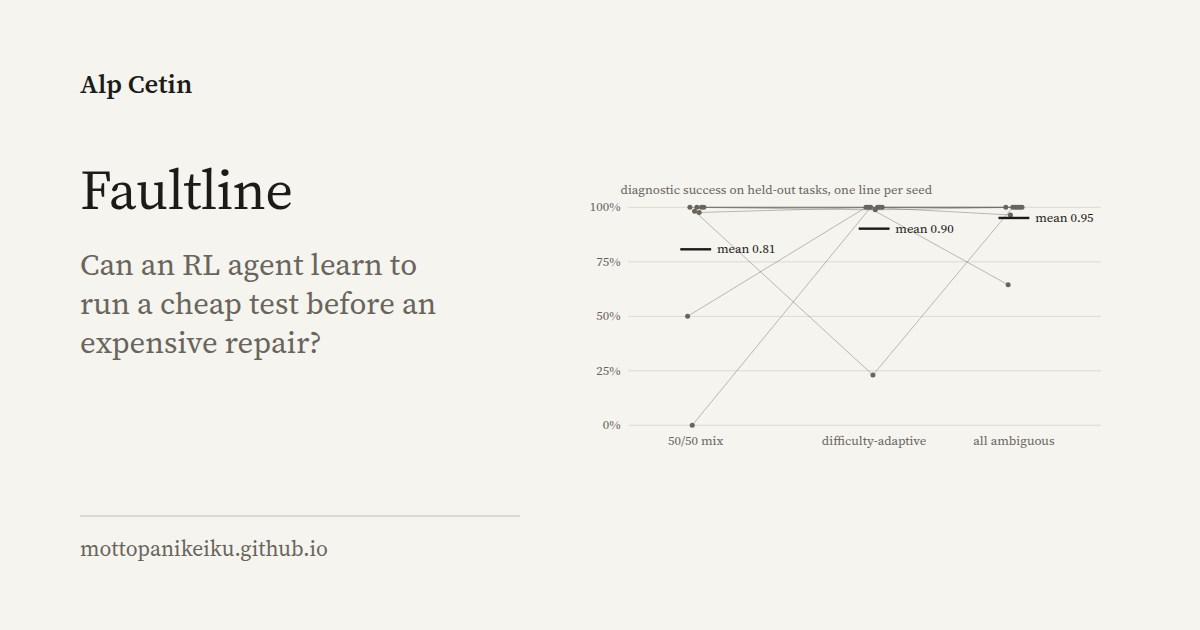
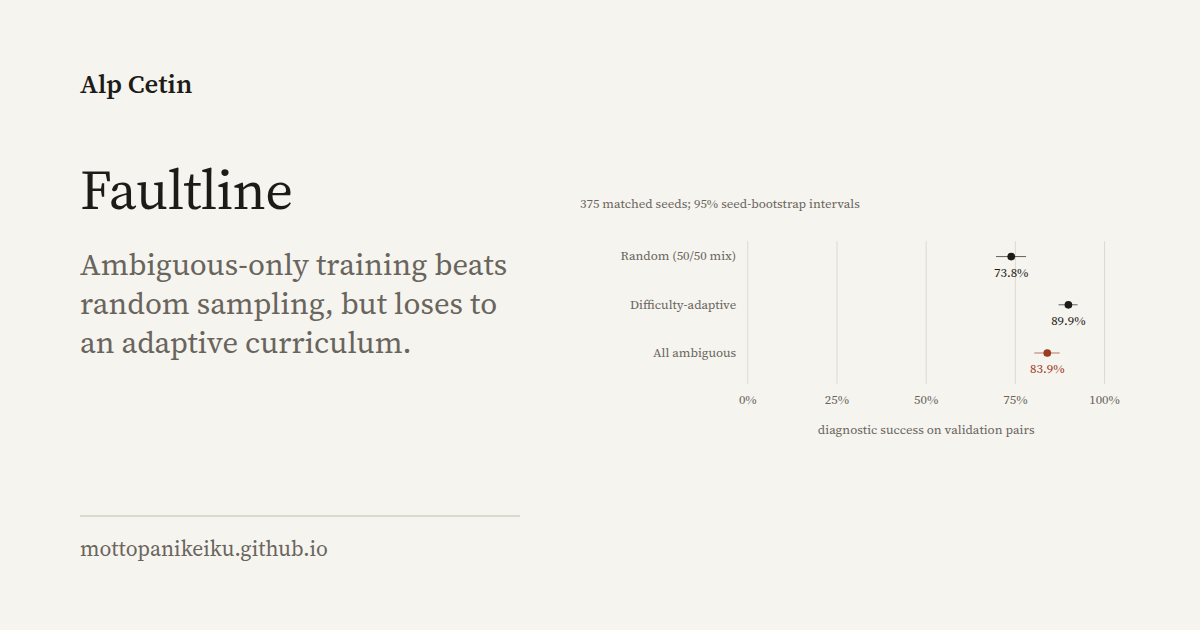
Publish independent 375-seed curriculum confirmation

diff --git a/projects/faultline/index.html b/projects/faultline/index.html
@@ -4,7 +4,7 @@
   <meta charset="utf-8">
   <meta name="viewport" content="width=device-width, initial-scale=1">
   <title>Faultline · Alp Cetin</title>
-  <meta name="description" content="A factory-diagnosis simulator for testing whether reinforcement-learning agents learn to run a cheap test before an expensive repair.">
+  <meta name="description" content="Across 375 matched training seeds, ambiguous-only PPO beats random factory sampling but loses to a difficulty-adaptive curriculum.">
   <link rel="canonical" href="https://mottopanikeiku.github.io/projects/faultline/">
   <meta name="color-scheme" content="light dark">
   <meta name="theme-color" media="(prefers-color-scheme: light)" content="#f6f4ef">
@@ -17,7 +17,7 @@
   <meta property="og:type" content="article">
   <meta property="og:site_name" content="Alp Cetin">
   <meta property="og:title" content="Faultline">
-  <meta property="og:description" content="Can a reinforcement-learning agent learn to run a cheap test before an expensive repair?">
+  <meta property="og:description" content="Ambiguous-only training beats random sampling, but loses to difficulty-adaptive sampling in an independent 375-seed confirmation.">
   <meta property="og:url" content="https://mottopanikeiku.github.io/projects/faultline/">
   <meta property="og:image" content="https://mottopanikeiku.github.io/og/faultline.png">
   <meta property="og:image:width" content="1200">
@@ -49,27 +49,29 @@
     <section class="block" aria-labelledby="method">
       <h2 id="method">Method</h2>
       <div class="prose">
-        <p>The agent is a graph encoder with a recurrent core, trained with PPO. Its reward is production minus operating costs, with no bonus for gathering information, so an inspection has to pay for itself. Each curriculum was trained from the same eight seeds for 30,000 decisions and evaluated on 128 held-out pairs of factories.</p>
+        <p>The agent is a graph encoder with a recurrent core, trained with PPO. Its reward is production minus operating costs, with no bonus for gathering information, so an inspection has to pay for itself. I compare a 50/50 mix of ambiguous and revealed tasks, a difficulty-adaptive mix, and ambiguous tasks only.</p>
+        <p>For the independent confirmation, I fixed 375 matched training seeds, 500–874, <a href="https://github.com/mottopanikeiku/faultline/commit/550766e">before training</a>: 1,125 policies, each targeting 30,000 decisions. Every run evaluates the same 128 validation base pairs. Diagnostic success requires advancing, obtaining informative inspection evidence, then making the correct repair; guessing alone does not count. The 95% intervals use 10,000 bootstrap resamples over training seeds, not episodes. Poor learning runs remain included.</p>
       </div>
     </section>
 
     <section class="block" aria-labelledby="result">
       <h2 id="result">Result</h2>
       <div class="prose">
-        <p>I didn’t establish a curriculum effect. Training only on ambiguous cases had the highest mean, 95% against 90% and 81%, but most seeds reach 100% under every curriculum, and the means differ because of a few failed seeds.</p>
+        <p>Ambiguous-only training beats random sampling, but loses to the difficulty curriculum. Mean diagnostic success is 73.8% for Random, 89.9% for Difficulty, and 83.9% for Epistemic (all ambiguous).</p>
         <figure class="figure">
-          <div class="scroll" tabindex="0" role="region" aria-labelledby="faultline-title"><!-- figure:faultline --><svg class="chart" viewBox="0 0 560 316" role="img" aria-labelledby="faultline-title faultline-desc"><title id="faultline-title">Diagnostic success of each training seed under three curricula</title><desc id="faultline-desc">Eight paired seeds per curriculum. Means: 50/50 mix 0.81, difficulty-adaptive 0.90, all ambiguous 0.95. Most seeds reach 100% under every curriculum; the means differ because of a few poor seeds.</desc><line class="grid" x1="50" y1="272" x2="540" y2="272"/><text text-anchor="end" x="42" y="276">0%</text><line class="grid" x1="50" y1="215.5" x2="540" y2="215.5"/><text text-anchor="end" x="42" y="219.5">25%</text><line class="grid" x1="50" y1="159" x2="540" y2="159"/><text text-anchor="end" x="42" y="163">50%</text><line class="grid" x1="50" y1="102.5" x2="540" y2="102.5"/><text text-anchor="end" x="42" y="106.5">75%</text><line class="grid" x1="50" y1="46" x2="540" y2="46"/><text text-anchor="end" x="42" y="50">100%</text><text x="42" y="32">diagnostic success on held-out tasks, one line per seed</text><path class="line faint" d="M111.6 159 L296.6 46 L441.6 46"/><circle class="dot" cx="111.6" cy="159" r="2.6"/><circle class="dot" cx="296.6" cy="46" r="2.6"/><circle class="dot" cx="441.6" cy="46" r="2.6"/><path class="line faint" d="M114 46 L299 46 L444 126.3"/><circle class="dot" cx="114" cy="46" r="2.6"/><circle class="dot" cx="299" cy="46" r="2.6"/><circle class="dot" cx="444" cy="126.3" r="2.6"/><path class="line faint" d="M116.4 272 L301.4 46 L446.4 53.9"/><circle class="dot" cx="116.4" cy="272" r="2.6"/><circle class="dot" cx="301.4" cy="46" r="2.6"/><circle class="dot" cx="446.4" cy="53.9" r="2.6"/><path class="line faint" d="M118.8 50 L303.8 219.9 L448.8 46"/><circle class="dot" cx="118.8" cy="50" r="2.6"/><circle class="dot" cx="303.8" cy="219.9" r="2.6"/><circle class="dot" cx="448.8" cy="46" r="2.6"/><path class="line faint" d="M121.2 46 L306.2 48.6 L451.2 46"/><circle class="dot" cx="121.2" cy="46" r="2.6"/><circle class="dot" cx="306.2" cy="48.6" r="2.6"/><circle class="dot" cx="451.2" cy="46" r="2.6"/><path class="line faint" d="M123.6 51.3 L308.6 46 L453.6 46"/><circle class="dot" cx="123.6" cy="51.3" r="2.6"/><circle class="dot" cx="308.6" cy="46" r="2.6"/><circle class="dot" cx="453.6" cy="46" r="2.6"/><path class="line faint" d="M126 46 L311 46 L456 46"/><circle class="dot" cx="126" cy="46" r="2.6"/><circle class="dot" cx="311" cy="46" r="2.6"/><circle class="dot" cx="456" cy="46" r="2.6"/><path class="line faint" d="M128.4 46 L313.4 46 L458.4 46"/><circle class="dot" cx="128.4" cy="46" r="2.6"/><circle class="dot" cx="313.4" cy="46" r="2.6"/><circle class="dot" cx="458.4" cy="46" r="2.6"/><line class="mean" x1="104" y1="89.5" x2="136" y2="89.5"/><text class="strong" x="142" y="93.5">mean 0.81</text><text text-anchor="middle" x="120" y="292">50/50 mix</text><line class="mean" x1="289" y1="68.1" x2="321" y2="68.1"/><text class="strong" x="327" y="72.1">mean 0.90</text><text text-anchor="middle" x="305" y="292">difficulty-adaptive</text><line class="mean" x1="434" y1="57" x2="466" y2="57"/><text class="strong" x="472" y="61">mean 0.95</text><text text-anchor="middle" x="450" y="292">all ambiguous</text></svg><!-- /figure:faultline --></div>
-          <figcaption>Diagnostic success (advance, inspect, then make the right repair on an ambiguous task) for each training seed. Lines connect the same seed across curricula; bars are means. Data: <a href="https://github.com/mottopanikeiku/faultline/blob/d8dcf021e434d64adf06659ff0e1e0d61b70acf0/artifacts/results/small-kill-v1-analysis.json">small-kill-v1-analysis.json</a>.</figcaption>
+          <div class="scroll" tabindex="0" role="region" aria-labelledby="faultline-title"><!-- figure:faultline --><svg class="chart" viewBox="0 0 560 258" role="img" aria-labelledby="faultline-title faultline-desc"><title id="faultline-title">Diagnostic success in the independent 375-seed confirmation</title><desc id="faultline-desc">375 matched training seeds per curriculum. Means: Random (50/50 mix): 73.8%; Difficulty-adaptive: 89.9%; All ambiguous: 83.9%. Bars are separate 95% bootstrap intervals over training seeds. Ambiguous-only training beats random sampling but loses to difficulty-adaptive sampling.</desc><text x="0" y="18">375 matched seeds; 95% seed-bootstrap intervals</text><line class="grid" x1="174" y1="52" x2="174" y2="200"/><text text-anchor="middle" x="174" y="221">0%</text><line class="grid" x1="266.5" y1="52" x2="266.5" y2="200"/><text text-anchor="middle" x="266.5" y="221">25%</text><line class="grid" x1="359" y1="52" x2="359" y2="200"/><text text-anchor="middle" x="359" y="221">50%</text><line class="grid" x1="451.5" y1="52" x2="451.5" y2="200"/><text text-anchor="middle" x="451.5" y="221">75%</text><line class="grid" x1="544" y1="52" x2="544" y2="200"/><text text-anchor="middle" x="544" y="221">100%</text><text text-anchor="end" x="162" y="72">Random (50/50 mix)</text><line class="ci strong" x1="431.4" y1="68" x2="462.6" y2="68"/><circle class="dot strong" cx="447.2" cy="68" r="4"/><text class="strong" text-anchor="middle" x="447.2" y="89">73.8%</text><text text-anchor="end" x="162" y="122">Difficulty-adaptive</text><line class="ci strong" x1="496.3" y1="118" x2="516" y2="118"/><circle class="dot strong" cx="506.5" cy="118" r="4"/><text class="strong" text-anchor="middle" x="506.5" y="139">89.9%</text><text text-anchor="end" x="162" y="172">All ambiguous</text><line class="ci em" x1="471.1" y1="168" x2="497.4" y2="168"/><circle class="dot em" cx="484.6" cy="168" r="4"/><text class="em" text-anchor="middle" x="484.6" y="189">83.9%</text><text text-anchor="middle" x="359" y="252">diagnostic success on validation pairs</text></svg><!-- /figure:faultline --></div>
+          <figcaption>Independent confirmation: 375 matched training seeds per arm, evaluated on the same validation pairs. Dots are mean diagnostic success; bars are separate 95% seed-bootstrap intervals. Data: <a href="https://github.com/mottopanikeiku/faultline/blob/ac6ed689866de6cff18b51fc29fa1ab3c2cf2d50/artifacts/results/seed-confirmation-analysis.json">seed-confirmation-analysis.json</a>.</figcaption>
         </figure>
-        <p>With eight seeds the gaps aren’t reliable: the paired difference from the adaptive curriculum is 4.9 points, with a 95% interval from −13 to +29.</p>
-        <p>The agents do use what they see. In a counterfactual test I held each agent’s history fixed and swapped its inspection result for the other fault’s. Its repair followed the swapped evidence in 90–99% of the episodes where it inspected, and replacing the evidence with noise dropped correct repairs to about 50%.</p>
+        <p>The paired Epistemic−Random difference is +10.1 percentage points, with a 95% interval of [+4.7, +15.5]. Epistemic−Difficulty is −5.9 points [−10.3, −1.7]. The hoped-for advantage over both is ruled out. These are individual intervals, not simultaneous intervals for a full curriculum ranking. Neither establishes a minimum five-point effect or practical equivalence within ±5 points.</p>
+        <p>The earlier <a href="https://github.com/mottopanikeiku/faultline/blob/ac6ed689866de6cff18b51fc29fa1ab3c2cf2d50/artifacts/results/seed-comparison-analysis.json">32-seed replication</a> was inconclusive: both primary paired intervals crossed zero. I do not pool it with this confirmation.</p>
       </div>
     </section>
 
     <section class="block" aria-labelledby="limits">
       <h2 id="limits">Limits</h2>
       <div class="prose">
-        <p>One synthetic task family and a small policy, evaluated on the validation split only. The observations don’t say how reliable a test is or what it costs, so the agents can’t learn when testing is worth it. That is the next experiment.</p>
+        <p>One synthetic task family and a small policy, evaluated on the validation split only; the held-out test split remains untouched. The observations do not include cue reliability or reward coefficients, so this does not establish when agents adapt testing to reliability or cost.</p>
+        <p>The <a href="https://github.com/mottopanikeiku/faultline/blob/ac6ed689866de6cff18b51fc29fa1ab3c2cf2d50/docs/seed-confirmation-plan.md">plan</a> targeted interval half-widths below five points. I missed that target against Random (5.43 points) and did not extend the cohort after seeing outcomes. The confirmation used one PyTorch thread; earlier cohorts used more, so I do not assume identical arithmetic or trajectories. Earlier <a href="https://github.com/mottopanikeiku/faultline/blob/ac6ed689866de6cff18b51fc29fa1ab3c2cf2d50/artifacts/results/counterfactual-v1-analysis.json">evidence-swapping tests</a> concern older policies, not these new checkpoints.</p>
       </div>
     </section>
 
@@ -77,6 +79,7 @@
       <h2 id="links">Links</h2>
       <ul class="rows">
         <li class="entry"><p class="title"><a href="https://github.com/mottopanikeiku/faultline">Code, checkpoints and results</a> <span class="org">GitHub</span></p></li>
+        <li class="entry"><p class="title"><a href="https://github.com/mottopanikeiku/faultline/blob/ac6ed689866de6cff18b51fc29fa1ab3c2cf2d50/docs/seed-confirmation-plan.md">Independent confirmation plan</a> <span class="org">Pinned source</span></p></li>
       </ul>
     </section>
 

diff --git a/tools/cards.html b/tools/cards.html
@@ -126,9 +126,9 @@
   <div class="card project" id="og-faultline">
     <p class="name">Alp Cetin</p>
     <h1>Faultline</h1>
-    <p class="question">Can an RL agent learn to run a cheap test before an expensive repair?</p>
+    <p class="question">Ambiguous-only training beats random sampling, but loses to an adaptive curriculum.</p>
     <p class="url">mottopanikeiku.github.io</p>
-    <div class="plot"><!-- figure:faultline --><svg class="chart" viewBox="0 0 560 316" role="img" aria-labelledby="faultline-title faultline-desc"><title id="faultline-title">Diagnostic success of each training seed under three curricula</title><desc id="faultline-desc">Eight paired seeds per curriculum. Means: 50/50 mix 0.81, difficulty-adaptive 0.90, all ambiguous 0.95. Most seeds reach 100% under every curriculum; the means differ because of a few poor seeds.</desc><line class="grid" x1="50" y1="272" x2="540" y2="272"/><text text-anchor="end" x="42" y="276">0%</text><line class="grid" x1="50" y1="215.5" x2="540" y2="215.5"/><text text-anchor="end" x="42" y="219.5">25%</text><line class="grid" x1="50" y1="159" x2="540" y2="159"/><text text-anchor="end" x="42" y="163">50%</text><line class="grid" x1="50" y1="102.5" x2="540" y2="102.5"/><text text-anchor="end" x="42" y="106.5">75%</text><line class="grid" x1="50" y1="46" x2="540" y2="46"/><text text-anchor="end" x="42" y="50">100%</text><text x="42" y="32">diagnostic success on held-out tasks, one line per seed</text><path class="line faint" d="M111.6 159 L296.6 46 L441.6 46"/><circle class="dot" cx="111.6" cy="159" r="2.6"/><circle class="dot" cx="296.6" cy="46" r="2.6"/><circle class="dot" cx="441.6" cy="46" r="2.6"/><path class="line faint" d="M114 46 L299 46 L444 126.3"/><circle class="dot" cx="114" cy="46" r="2.6"/><circle class="dot" cx="299" cy="46" r="2.6"/><circle class="dot" cx="444" cy="126.3" r="2.6"/><path class="line faint" d="M116.4 272 L301.4 46 L446.4 53.9"/><circle class="dot" cx="116.4" cy="272" r="2.6"/><circle class="dot" cx="301.4" cy="46" r="2.6"/><circle class="dot" cx="446.4" cy="53.9" r="2.6"/><path class="line faint" d="M118.8 50 L303.8 219.9 L448.8 46"/><circle class="dot" cx="118.8" cy="50" r="2.6"/><circle class="dot" cx="303.8" cy="219.9" r="2.6"/><circle class="dot" cx="448.8" cy="46" r="2.6"/><path class="line faint" d="M121.2 46 L306.2 48.6 L451.2 46"/><circle class="dot" cx="121.2" cy="46" r="2.6"/><circle class="dot" cx="306.2" cy="48.6" r="2.6"/><circle class="dot" cx="451.2" cy="46" r="2.6"/><path class="line faint" d="M123.6 51.3 L308.6 46 L453.6 46"/><circle class="dot" cx="123.6" cy="51.3" r="2.6"/><circle class="dot" cx="308.6" cy="46" r="2.6"/><circle class="dot" cx="453.6" cy="46" r="2.6"/><path class="line faint" d="M126 46 L311 46 L456 46"/><circle class="dot" cx="126" cy="46" r="2.6"/><circle class="dot" cx="311" cy="46" r="2.6"/><circle class="dot" cx="456" cy="46" r="2.6"/><path class="line faint" d="M128.4 46 L313.4 46 L458.4 46"/><circle class="dot" cx="128.4" cy="46" r="2.6"/><circle class="dot" cx="313.4" cy="46" r="2.6"/><circle class="dot" cx="458.4" cy="46" r="2.6"/><line class="mean" x1="104" y1="89.5" x2="136" y2="89.5"/><text class="strong" x="142" y="93.5">mean 0.81</text><text text-anchor="middle" x="120" y="292">50/50 mix</text><line class="mean" x1="289" y1="68.1" x2="321" y2="68.1"/><text class="strong" x="327" y="72.1">mean 0.90</text><text text-anchor="middle" x="305" y="292">difficulty-adaptive</text><line class="mean" x1="434" y1="57" x2="466" y2="57"/><text class="strong" x="472" y="61">mean 0.95</text><text text-anchor="middle" x="450" y="292">all ambiguous</text></svg><!-- /figure:faultline --></div>
+    <div class="plot"><!-- figure:faultline --><svg class="chart" viewBox="0 0 560 258" role="img" aria-labelledby="faultline-title faultline-desc"><title id="faultline-title">Diagnostic success in the independent 375-seed confirmation</title><desc id="faultline-desc">375 matched training seeds per curriculum. Means: Random (50/50 mix): 73.8%; Difficulty-adaptive: 89.9%; All ambiguous: 83.9%. Bars are separate 95% bootstrap intervals over training seeds. Ambiguous-only training beats random sampling but loses to difficulty-adaptive sampling.</desc><text x="0" y="18">375 matched seeds; 95% seed-bootstrap intervals</text><line class="grid" x1="174" y1="52" x2="174" y2="200"/><text text-anchor="middle" x="174" y="221">0%</text><line class="grid" x1="266.5" y1="52" x2="266.5" y2="200"/><text text-anchor="middle" x="266.5" y="221">25%</text><line class="grid" x1="359" y1="52" x2="359" y2="200"/><text text-anchor="middle" x="359" y="221">50%</text><line class="grid" x1="451.5" y1="52" x2="451.5" y2="200"/><text text-anchor="middle" x="451.5" y="221">75%</text><line class="grid" x1="544" y1="52" x2="544" y2="200"/><text text-anchor="middle" x="544" y="221">100%</text><text text-anchor="end" x="162" y="72">Random (50/50 mix)</text><line class="ci strong" x1="431.4" y1="68" x2="462.6" y2="68"/><circle class="dot strong" cx="447.2" cy="68" r="4"/><text class="strong" text-anchor="middle" x="447.2" y="89">73.8%</text><text text-anchor="end" x="162" y="122">Difficulty-adaptive</text><line class="ci strong" x1="496.3" y1="118" x2="516" y2="118"/><circle class="dot strong" cx="506.5" cy="118" r="4"/><text class="strong" text-anchor="middle" x="506.5" y="139">89.9%</text><text text-anchor="end" x="162" y="172">All ambiguous</text><line class="ci em" x1="471.1" y1="168" x2="497.4" y2="168"/><circle class="dot em" cx="484.6" cy="168" r="4"/><text class="em" text-anchor="middle" x="484.6" y="189">83.9%</text><text text-anchor="middle" x="359" y="252">diagnostic success on validation pairs</text></svg><!-- /figure:faultline --></div>
   </div>
   <div class="card project" id="og-heliostune">
     <p class="name">Alp Cetin</p>

diff --git a/index.html b/index.html
@@ -97,7 +97,7 @@
         <li class="entry brief">
           <h3 class="title"><a href="/projects/faultline/" data-print="github.com/mottopanikeiku/faultline">Faultline</a></h3>
           <p class="year"><time datetime="2026">2026</time></p>
-          <p class="desc">A factory simulator where two hidden faults look the same until a cheap test tells them apart, used to train recurrent PPO agents to test before they repair. Training only on ambiguous cases scored highest, but across eight seeds its edge over simpler curricula wasn’t reliable.</p>
+          <p class="desc">A factory simulator where hidden faults look the same until a cheap test tells them apart. Across 375 matched training seeds, ambiguous-only PPO beat random sampling by 10 points but lost to a difficulty curriculum by 6; the hoped-for advantage over both is ruled out.</p>
         </li>
         <li class="entry brief">
           <h3 class="title"><a href="/projects/quantile-cycles/" data-print="github.com/mottopanikeiku/quantile-cycles">Quantile cycles</a></h3>

diff --git a/tools/figures.py b/tools/figures.py
@@ -128,32 +128,30 @@ def branchpilot() -> str:
 
 def faultline() -> str:
     data = load("faultline")
-    arms = data["arms"]
-    cols = [("random", "50/50 mix"), ("difficulty", "difficulty-adaptive"), ("epistemic", "all ambiguous")]
-    W, H, L, R, T, B = 560, 316, 50, 20, 46, 44
-    xs = [L + 70, (L + W - R) / 2 + 10, W - R - 90]
-    y = scale(0, 1, H - B, T)
-    s = SVG("faultline", W, H,
-            "Diagnostic success of each training seed under three curricula",
-            "Eight paired seeds per curriculum. Means: 50/50 mix 0.81, difficulty-adaptive 0.90, "
-            "all ambiguous 0.95. Most seeds reach 100% under every curriculum; the means differ "
-            "because of a few poor seeds.")
-    for v in (0, 0.25, 0.5, 0.75, 1.0):
-        s.line(L, y(v), W - R, y(v), "grid")
-        s.text(L - 8, y(v) + 4, f"{v * 100:.0f}%", anchor="end")
-    s.text(L - 8, T - 14, "diagnostic success on held-out tasks, one line per seed")
-    seeds = sorted(arms["random"]["seeds"], key=int)
-    jitter = {seed: (i - (len(seeds) - 1) / 2) * 2.4 for i, seed in enumerate(seeds)}
-    for seed in seeds:
-        pts = [(xs[i] + jitter[seed], y(arms[key]["seeds"][seed])) for i, (key, _) in enumerate(cols)]
-        s.path(pts, "line faint")
-        for px, py in pts:
-            s.circle(px, py, 2.6, "dot")
-    for i, (key, label) in enumerate(cols):
-        mean = arms[key]["mean"]
-        s.line(xs[i] - 16, y(mean), xs[i] + 16, y(mean), "mean")
-        s.text(xs[i] + 22, y(mean) + 4, f"mean {mean:.2f}", "strong")
-        s.text(xs[i], H - B + 20, label, anchor="middle")
+    rows = (("random", "Random (50/50 mix)"), ("difficulty", "Difficulty-adaptive"),
+            ("epistemic", "All ambiguous"))
+    desc = "; ".join(f'{label}: {data["arms"][key]["mean"] * 100:.1f}%'
+                     for key, label in rows)
+    s = SVG("faultline", 560, 258,
+            f'Diagnostic success in the independent {data["seed_count"]}-seed confirmation',
+            f'{data["seed_count"]} matched training seeds per curriculum. Means: {desc}. '
+            "Bars are separate 95% bootstrap intervals over training seeds. Ambiguous-only "
+            "training beats random sampling but loses to difficulty-adaptive sampling.")
+    L, R, top, bottom = 174, 16, 52, 200
+    x = scale(0, 1, L, 560 - R)
+    s.text(0, 18, f'{data["seed_count"]} matched seeds; 95% seed-bootstrap intervals')
+    for value in (0, 0.25, 0.5, 0.75, 1):
+        s.line(x(value), top, x(value), bottom, "grid")
+        s.text(x(value), bottom + 21, f"{value * 100:.0f}%", anchor="middle")
+    for index, (key, label) in enumerate(rows):
+        row = data["arms"][key]
+        y = 68 + index * 50
+        cls = "em" if key == "epistemic" else "strong"
+        s.text(L - 12, y + 4, label, anchor="end")
+        s.line(x(row["ci"][0]), y, x(row["ci"][1]), y, f"ci {cls}")
+        s.circle(x(row["mean"]), y, 4, f"dot {cls}")
+        s.text(x(row["mean"]), y + 21, f'{row["mean"] * 100:.1f}%', cls, "middle")
+    s.text((L + 560 - R) / 2, 252, "diagnostic success on validation pairs", anchor="middle")
     return s.render()
 
 

diff --git a/tools/extract_data.py b/tools/extract_data.py
@@ -26,8 +26,8 @@ SOURCES = {
                    "results/summary.json"),
     "eval-power": ("eval-power", "ef7c451d678e7eece94344b0c87567a60e28e330",
                    "results/calibration.csv"),
-    "faultline": ("faultline", "d8dcf021e434d64adf06659ff0e1e0d61b70acf0",
-                  "artifacts/results/small-kill-v1-analysis.json"),
+    "faultline": ("faultline", "ac6ed689866de6cff18b51fc29fa1ab3c2cf2d50",
+                  "artifacts/results/seed-confirmation-analysis.json"),
     "heliostune": ("heliostune", "d1f5ab6fb6ff8b1862baf635dc8abd9241052809",
                    "benchmarks/results/parhelion-h100-final.json"),
     "verge-lab": ("verge-lab", "efa08d133f22501b2dedcb7a7aa636bf37bbc826",
@@ -106,13 +106,19 @@ def faultline(raw: dict) -> dict:
         arms[name] = {
             "mean": primary["estimate"],
             "ci": [primary["lower"], primary["upper"]],
-            "seeds": {str(s["seed"]): s["value"] for s in arm["individual_seeds"]},
         }
     paired = {
         name: {"estimate": p["estimate"], "ci": [p["lower"], p["upper"]]}
         for name, p in raw["paired_comparisons"].items()
     }
-    return {"arms": arms, "paired": paired, "decision": raw["decision"]}
+    protocol = raw["protocol"]
+    return {"arms": arms, "paired": paired, "decision": raw["decision"],
+            "seed_count": len(protocol["training_seeds"]),
+            "seed_range": [protocol["training_seeds"][0], protocol["training_seeds"][-1]],
+            "bootstrap_resamples": protocol["bootstrap_resamples"],
+            "training_steps": protocol["training_decision_steps"],
+            "evaluation_split": protocol["evaluation_split"],
+            "evaluation_base_pairs": protocol["evaluation_base_pair_count"]}
 
 
 def heliostune(raw: dict) -> dict:
